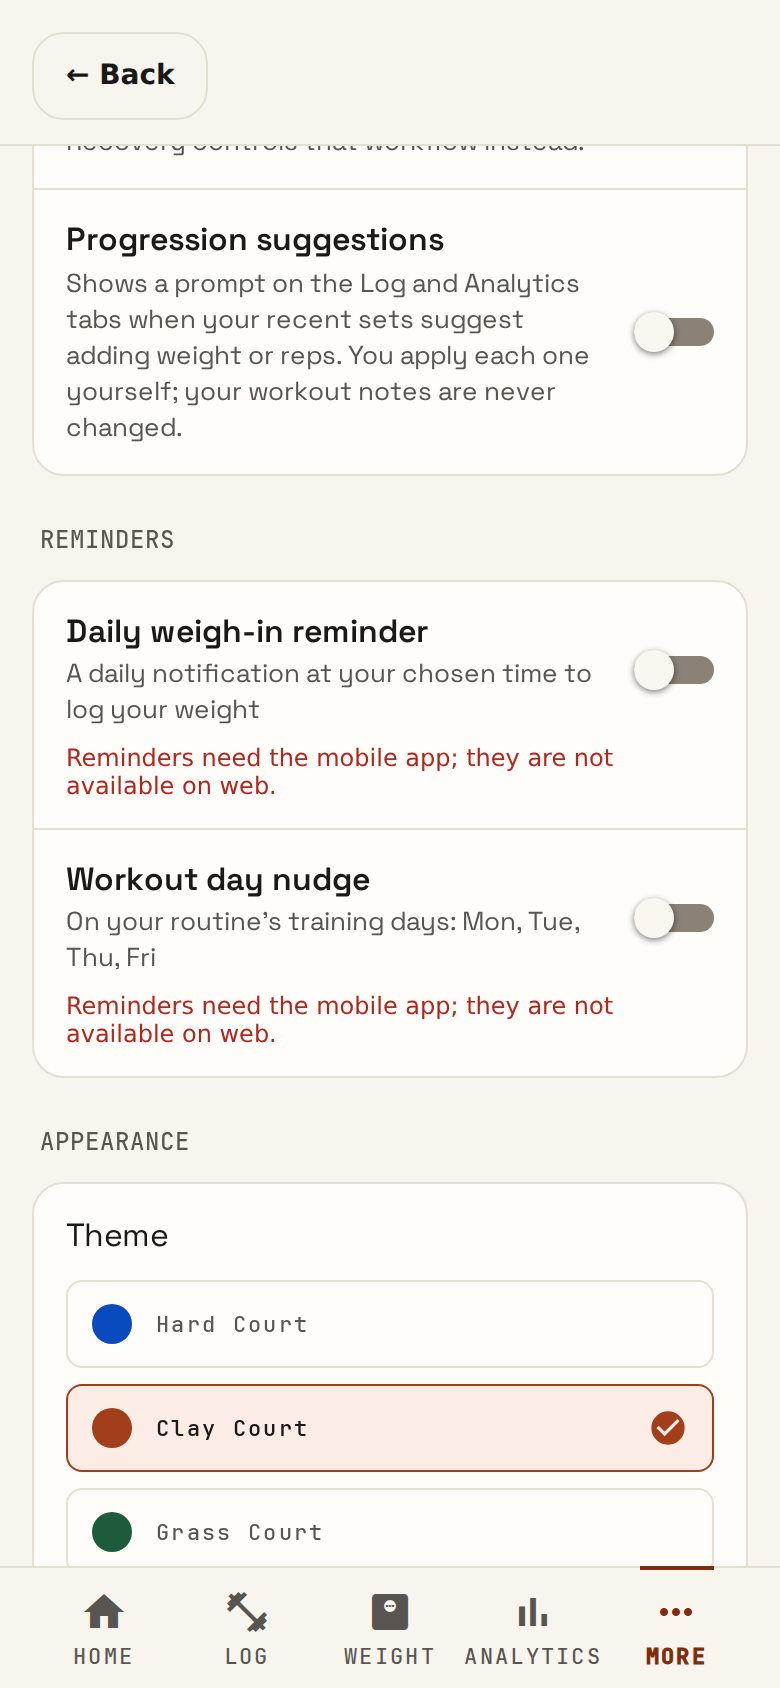
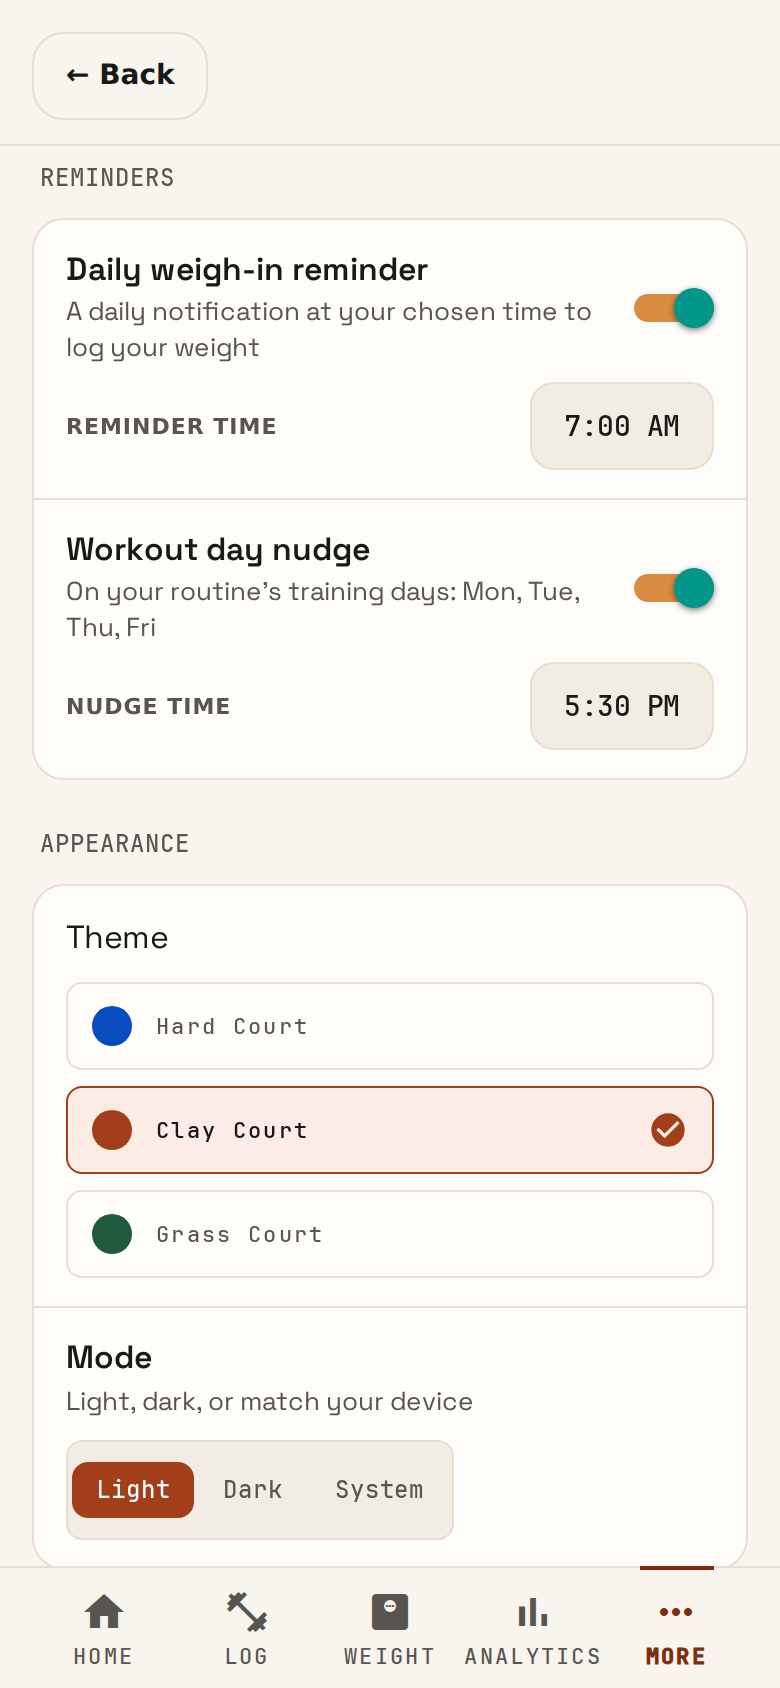
Add R9 sync-error and reminder-time renders (#1608)

diff --git a/docs/evidence/app-redesign-v3/r9/README.md b/docs/evidence/app-redesign-v3/r9/README.md
@@ -1,6 +1,6 @@
 # R9 (#1608) visual evidence — More and Settings grouped panels
 
-- **Rendered commits:** More menu states (`more-*`, `back-to-menu-*`) at `547babc22a3a9a41061453be4668b3b2bcf8ec90` (App Guide row title restored to production casing); Settings, destination, recovery and Cloud Sync anchor states at `a8344a26e558606169db8e36b6d22a9e32ad9ff1` — 547babc changes only that menu-row title, which those states do not show. Real app Expo web export, not prototype HTML. Other commits add only docs, evidence and the changelog fragment.
+- **Rendered commits:** More menu states (`more-*`, `back-to-menu-*`) at `547babc22a3a9a41061453be4668b3b2bcf8ec90` (App Guide row title restored to production casing); `more-sync-error-*`, `settings-reminder-times-*` and `settings-reminder-web-*` also at 547babc; other Settings, destination, recovery and Cloud Sync anchor states at `a8344a26e558606169db8e36b6d22a9e32ad9ff1` — 547babc changes only that menu-row title, which those states do not show. Real app Expo web export, not prototype HTML. Other commits add only docs, evidence and the changelog fragment.
 - **Viewport:** 390×844 @2x via the shared harness (`../capture.cjs`, read-only); issue-local overlays in `fixtures.cjs`.
 - **Themes:** every state in hard-dark and clay-light; More and Settings first screens also in grass-light and clay-dark (`*-first-*`, full page).
 - **References:** `docs/design/app-redesign-v3/shots/hybrid/` more-hard-dark, more-clay-light, full-more-hard-dark, state-more-settings-hard-dark.
@@ -23,15 +23,15 @@ cd .. && KILO_RENDERED_COMMIT=<commit> \
   node docs/evidence/app-redesign-v3/r9/capture.cjs <scratch>/dist /tmp/kilo-review-tools/node_modules <scratch>/r9work
 ```
 
-All 60 states captured without a step failure (full run at a8344a2; `more,back` rerun at 547babc with the same command plus that `only` filter). `theme_check` reads false only on `settings-court-*` / `settings-mode-*` shots whose court or mode differs from the seeded one, because those states change the theme on purpose.
+All 64 states captured without a step failure (full run at a8344a2; `more,back` and `more-sync-error,settings-reminder` reruns at 547babc with the same command plus that `only` filter). `theme_check` reads false only on `settings-court-*` / `settings-mode-*` shots whose court or mode differs from the seeded one, because those states change the theme on purpose.
 
-Raw Playwright on `session.page` (the shared API has no hook for these): signed-out drops the seeded `sb-mockproj-auth-token` and reloads; recovery seeds `kilo.auth.recoveryPending` (overlay) and boots on `/#error=access_denied&error_description=…`; failed save makes `localStorage.setItem('kilo_fatigue_tracking_enabled', …)` throw.
+Raw Playwright on `session.page`/`session.ctx` (the shared API has no hook for these): sync error routes mockproj `rest/v1` writes (not the preflight RPC) to 500 after Data and backup opens, then presses Upload Local History; signed-out drops the seeded `sb-mockproj-auth-token` and reloads; recovery seeds `kilo.auth.recoveryPending` (overlay) and boots on `/#error=access_denied&error_description=…`; failed save makes `localStorage.setItem('kilo_fatigue_tracking_enabled', …)` throw.
 
 ## Degradation, failures and preserved capabilities
 
 - Account row honesty: signed in with no sync pass shows "Signed in · Ready to sync" (`more-signed-in`); a queued local change shows the warning tone "1 pending local change" (`more-sync-pending`); signed out shows "Not signed in" with no sync claim, Account row kept (`more-signed-out`).
-- **Limitation, sync error:** the mock backend could not be made to record a failed sync pass from the web export (Sync Now with REST answering 500 left the summary at pending), so no error render is included. The error tone (`hasFailed` → "Signed in · <statusLabel>" in the error colour, `sync-problem` icon, failure winning over an older success) is covered by `mobile/tests/redesign-more-settings.test.js`. No sync code was changed.
-- **Limitation, reminder times:** reminders are native-only; on web, switching one on shows the production inline failure ("Reminders need the mobile app…") instead of the time rows (`settings-reminder-times`). The time rows keep their unchanged markup inside the flat block; `reminder-settings-card.test.js` (28 tests) covers them.
+- Sync error: with the harness preflight passing and mockproj data writes answering 500, Upload Local History records a failed pass; the row reads "Signed in · Last sync failed" in the error tone with the `sync-problem` icon (`more-sync-error`).
+- Reminder times: both reminders stored as enabled (`remindersOn` overlay) render the weigh-in "Reminder time" and "Nudge time" rows inside the flat panel (`settings-reminder-times`). Switching one on in the web build shows production's inline "Reminders need the mobile app…" notice (`settings-reminder-web`); reminders are native-only.
 - Failed Fatigue tracking save: switch keeps the stored value, banner with Retry inside the row (`settings-toggle-failed`).
 - All eight destinations open with unchanged content (`dest-*`); back from each returns to the grouped menu (`back-to-menu`, asserted per destination).
 - Expired password-recovery link routes to Account → Set New Password with the readable error (`recovery-error`).
@@ -71,6 +71,8 @@ Raw Playwright on `session.page` (the shared API has no hook for these): signed-
 | [more-signed-in-hard-dark](after/more-signed-in-hard-dark.png) | [full-more-hard-dark.png](../../../design/app-redesign-v3/shots/hybrid/full-more-hard-dark.png) | Pass |
 | [more-signed-out-clay-light](after/more-signed-out-clay-light.png) | [full-more-hard-dark.png](../../../design/app-redesign-v3/shots/hybrid/full-more-hard-dark.png) | Pass |
 | [more-signed-out-hard-dark](after/more-signed-out-hard-dark.png) | [full-more-hard-dark.png](../../../design/app-redesign-v3/shots/hybrid/full-more-hard-dark.png) | Pass |
+| [more-sync-error-clay-light](after/more-sync-error-clay-light.png) | [full-more-hard-dark.png](../../../design/app-redesign-v3/shots/hybrid/full-more-hard-dark.png) | Pass |
+| [more-sync-error-hard-dark](after/more-sync-error-hard-dark.png) | [full-more-hard-dark.png](../../../design/app-redesign-v3/shots/hybrid/full-more-hard-dark.png) | Pass |
 | [more-sync-pending-clay-light](after/more-sync-pending-clay-light.png) | [full-more-hard-dark.png](../../../design/app-redesign-v3/shots/hybrid/full-more-hard-dark.png) | Pass |
 | [more-sync-pending-hard-dark](after/more-sync-pending-hard-dark.png) | [full-more-hard-dark.png](../../../design/app-redesign-v3/shots/hybrid/full-more-hard-dark.png) | Pass |
 | [recovery-error-clay-light](after/recovery-error-clay-light.png) | [full-more-hard-dark.png](../../../design/app-redesign-v3/shots/hybrid/full-more-hard-dark.png) | Pass |
@@ -97,6 +99,8 @@ Raw Playwright on `session.page` (the shared API has no hook for these): signed-
 | [settings-multiplier-reset-hard-dark](after/settings-multiplier-reset-hard-dark.png) | [state-more-settings-hard-dark.png](../../../design/app-redesign-v3/shots/hybrid/state-more-settings-hard-dark.png) | Pass |
 | [settings-reminder-times-clay-light](after/settings-reminder-times-clay-light.png) | [state-more-settings-hard-dark.png](../../../design/app-redesign-v3/shots/hybrid/state-more-settings-hard-dark.png) | Pass |
 | [settings-reminder-times-hard-dark](after/settings-reminder-times-hard-dark.png) | [state-more-settings-hard-dark.png](../../../design/app-redesign-v3/shots/hybrid/state-more-settings-hard-dark.png) | Pass |
+| [settings-reminder-web-clay-light](after/settings-reminder-web-clay-light.png) | [state-more-settings-hard-dark.png](../../../design/app-redesign-v3/shots/hybrid/state-more-settings-hard-dark.png) | Pass |
+| [settings-reminder-web-hard-dark](after/settings-reminder-web-hard-dark.png) | [state-more-settings-hard-dark.png](../../../design/app-redesign-v3/shots/hybrid/state-more-settings-hard-dark.png) | Pass |
 | [settings-toggle-failed-clay-light](after/settings-toggle-failed-clay-light.png) | [state-more-settings-hard-dark.png](../../../design/app-redesign-v3/shots/hybrid/state-more-settings-hard-dark.png) | Pass |
 | [settings-toggle-failed-hard-dark](after/settings-toggle-failed-hard-dark.png) | [state-more-settings-hard-dark.png](../../../design/app-redesign-v3/shots/hybrid/state-more-settings-hard-dark.png) | Pass |
 | [settings-toggles-on-clay-light](after/settings-toggles-on-clay-light.png) | [state-more-settings-hard-dark.png](../../../design/app-redesign-v3/shots/hybrid/state-more-settings-hard-dark.png) | Pass |
